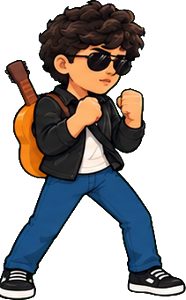
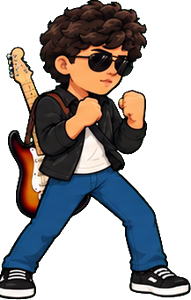
La Mocha: Adam con guitarra electrica
Claude-Session: https://claude.ai/code/session_019FDnwE1yNBZjJsBSPwGXXr

diff --git a/la-mocha/index.html b/la-mocha/index.html
@@ -312,7 +312,7 @@ ROSTER.find(c=>c.name==="Bruno").spr="Bruno";
 /* ---------- Dibujo de luchadores ---------- */
 const HEADS=new Map();
 /* ---------- Sprites ilustrados ---------- */
-const SPRITES={"Ivan":{portrait:"personajes/Ivan/portrait.png",idle:{w:166,h:300,ax:89,src:"personajes/Ivan/idle.png"},punch:{w:180,h:295,ax:90,src:"personajes/Ivan/punch.png"},punch_hi:{w:183,h:287,ax:90,src:"personajes/Ivan/punch_hi.png"},upper:{w:177,h:291,ax:81,src:"personajes/Ivan/upper.png"},kick:{w:168,h:286,ax:49,src:"personajes/Ivan/kick.png"},kick_hi:{w:170,h:302,ax:51,src:"personajes/Ivan/kick_hi.png"},block:{w:156,h:286,ax:68,src:"personajes/Ivan/block.png"},crouch:{w:166,h:223,ax:91,src:"personajes/Ivan/crouch.png"},crouch_punch:{w:200,h:223,ax:102,src:"personajes/Ivan/crouch_punch.png"},crouch_kick:{w:200,h:205,ax:66,src:"personajes/Ivan/crouch_kick.png"},hit:{w:196,h:267,ax:56,src:"personajes/Ivan/hit.png"},win:{w:167,h:284,ax:79,src:"personajes/Ivan/win.png"}},"Marcelo":{portrait:"personajes/Marcelo/portrait.png",idle:{w:182,h:300,ax:83,src:"personajes/Marcelo/idle.png"},punch:{w:201,h:285,ax:94,src:"personajes/Marcelo/punch.png"},kick:{w:187,h:284,ax:55,src:"personajes/Marcelo/kick.png"},hit:{w:203,h:265,ax:62,src:"personajes/Marcelo/hit.png"},win:{w:181,h:276,ax:63,src:"personajes/Marcelo/win.png"},crouch:{w:161,h:241,ax:90,src:"personajes/Marcelo/crouch.png"},crouch_punch:{w:213,h:235,ax:120,src:"personajes/Marcelo/crouch_punch.png"},crouch_kick:{w:207,h:235,ax:60,src:"personajes/Marcelo/crouch_kick.png"},punch_hi:{w:198,h:300,ax:84,src:"personajes/Marcelo/punch_hi.png"},upper:{w:188,h:305,ax:80,src:"personajes/Marcelo/upper.png"},kick_hi:{w:193,h:310,ax:55,src:"personajes/Marcelo/kick_hi.png"},block:{w:184,h:290,ax:79,src:"personajes/Marcelo/block.png"}},"Bruno":{portrait:"personajes/Bruno/portrait.png",idle:{w:211,h:300,ax:114,src:"personajes/Bruno/idle.png"},punch:{w:250,h:299,ax:121,src:"personajes/Bruno/punch.png"},punch_hi:{w:244,h:300,ax:112,src:"personajes/Bruno/punch_hi.png"},upper:{w:206,h:300,ax:81,src:"personajes/Bruno/upper.png"},kick:{w:217,h:296,ax:81,src:"personajes/Bruno/kick.png"},kick_hi:{w:230,h:266,ax:72,src:"personajes/Bruno/kick_hi.png"},block:{w:218,h:266,ax:95,src:"personajes/Bruno/block.png"},crouch:{w:216,h:236,ax:116,src:"personajes/Bruno/crouch.png"},crouch_punch:{w:221,h:236,ax:131,src:"personajes/Bruno/crouch_punch.png"},crouch_kick:{w:235,h:264,ax:86,src:"personajes/Bruno/crouch_kick.png"},hit:{w:257,h:247,ax:62,src:"personajes/Bruno/hit.png"},win:{w:167,h:255,ax:60,src:"personajes/Bruno/win.png"}},"Karl":{portrait:"personajes/Karl/portrait.png",idle:{w:192,h:300,ax:88,src:"personajes/Karl/idle.png"},punch:{w:220,h:286,ax:112,src:"personajes/Karl/punch.png"},kick:{w:191,h:268,ax:34,src:"personajes/Karl/kick.png"},hit:{w:211,h:283,ax:32,src:"personajes/Karl/hit.png"},win:{w:202,h:317,ax:89,src:"personajes/Karl/win.png"},crouch:{w:178,h:233,ax:92,src:"personajes/Karl/crouch.png"},crouch_punch:{w:226,h:232,ax:120,src:"personajes/Karl/crouch_punch.png"},crouch_kick:{w:215,h:255,ax:52,src:"personajes/Karl/crouch_kick.png"},punch_hi:{w:209,h:306,ax:87,src:"personajes/Karl/punch_hi.png"},upper:{w:191,h:312,ax:85,src:"personajes/Karl/upper.png"},kick_hi:{w:192,h:340,ax:33,src:"personajes/Karl/kick_hi.png"},block:{w:190,h:295,ax:63,src:"personajes/Karl/block.png"}},"Klaus":{portrait:"personajes/Klaus/portrait.png",idle:{w:170,h:300,ax:84,src:"personajes/Klaus/idle.png"},punch:{w:195,h:294,ax:100,src:"personajes/Klaus/punch.png"},punch_hi:{w:194,h:296,ax:91,src:"personajes/Klaus/punch_hi.png"},upper:{w:190,h:325,ax:92,src:"personajes/Klaus/upper.png"},kick:{w:180,h:292,ax:46,src:"personajes/Klaus/kick.png"},kick_hi:{w:184,h:304,ax:47,src:"personajes/Klaus/kick_hi.png"},block:{w:169,h:287,ax:83,src:"personajes/Klaus/block.png"},crouch:{w:175,h:231,ax:100,src:"personajes/Klaus/crouch.png"},crouch_punch:{w:216,h:231,ax:116,src:"personajes/Klaus/crouch_punch.png"},crouch_kick:{w:191,h:210,ax:58,src:"personajes/Klaus/crouch_kick.png"},hit:{w:196,h:275,ax:52,src:"personajes/Klaus/hit.png"},win:{w:167,h:304,ax:67,src:"personajes/Klaus/win.png"}},"Felipe":{portrait:"personajes/Felipe/portrait.png",idle:{w:195,h:300,ax:92,src:"personajes/Felipe/idle.png"},punch:{w:207,h:292,ax:97,src:"personajes/Felipe/punch.png"},punch_hi:{w:210,h:353,ax:95,src:"personajes/Felipe/punch_hi.png"},upper:{w:198,h:285,ax:85,src:"personajes/Felipe/upper.png"},kick:{w:193,h:297,ax:55,src:"personajes/Felipe/kick.png"},kick_hi:{w:194,h:329,ax:51,src:"personajes/Felipe/kick_hi.png"},block:{w:180,h:287,ax:88,src:"personajes/Felipe/block.png"},crouch:{w:195,h:227,ax:110,src:"personajes/Felipe/crouch.png"},crouch_punch:{w:222,h:224,ax:123,src:"personajes/Felipe/crouch_punch.png"},crouch_kick:{w:213,h:214,ax:61,src:"personajes/Felipe/crouch_kick.png"},hit:{w:211,h:302,ax:51,src:"personajes/Felipe/hit.png"},win:{w:214,h:303,ax:103,src:"personajes/Felipe/win.png"}},"Adam":{portrait:"personajes/Adam/portrait.png",idle:{w:186,h:300,ax:73,src:"personajes/Adam/idle.png"},punch:{w:197,h:295,ax:79,src:"personajes/Adam/punch.png"},punch_hi:{w:221,h:296,ax:93,src:"personajes/Adam/punch_hi.png"},upper:{w:198,h:326,ax:90,src:"personajes/Adam/upper.png"},kick:{w:200,h:288,ax:36,src:"personajes/Adam/kick.png"},kick_hi:{w:195,h:316,ax:33,src:"personajes/Adam/kick_hi.png"},block:{w:190,h:298,ax:77,src:"personajes/Adam/block.png"},crouch:{w:191,h:244,ax:87,src:"personajes/Adam/crouch.png"},crouch_punch:{w:229,h:240,ax:98,src:"personajes/Adam/crouch_punch.png"},crouch_kick:{w:232,h:216,ax:64,src:"personajes/Adam/crouch_kick.png"},hit:{w:230,h:280,ax:45,src:"personajes/Adam/hit.png"},win:{w:198,h:294,ax:97,src:"personajes/Adam/win.png"}},"Lazza":{portrait:"personajes/Lazza/portrait.png",idle:{w:182,h:300,ax:92,src:"personajes/Lazza/idle.png"},punch:{w:197,h:289,ax:103,src:"personajes/Lazza/punch.png"},punch_hi:{w:197,h:306,ax:90,src:"personajes/Lazza/punch_hi.png"},upper:{w:189,h:316,ax:104,src:"personajes/Lazza/upper.png"},kick:{w:187,h:298,ax:72,src:"personajes/Lazza/kick.png"},kick_hi:{w:185,h:333,ax:70,src:"personajes/Lazza/kick_hi.png"},block:{w:170,h:285,ax:99,src:"personajes/Lazza/block.png"},crouch:{w:185,h:232,ax:114,src:"personajes/Lazza/crouch.png"},crouch_punch:{w:222,h:221,ax:131,src:"personajes/Lazza/crouch_punch.png"},crouch_kick:{w:216,h:203,ax:85,src:"personajes/Lazza/crouch_kick.png"},hit:{w:196,h:291,ax:67,src:"personajes/Lazza/hit.png"},win:{w:185,h:299,ax:97,src:"personajes/Lazza/win.png"}},"Espe":{portrait:"personajes/Espe/portrait.png",idle:{w:187,h:300,ax:93,src:"personajes/Espe/idle.png"},punch:{w:202,h:293,ax:94,src:"personajes/Espe/punch.png"},punch_hi:{w:201,h:305,ax:99,src:"personajes/Espe/punch_hi.png"},upper:{w:198,h:311,ax:98,src:"personajes/Espe/upper.png"},kick:{w:198,h:295,ax:57,src:"personajes/Espe/kick.png"},kick_hi:{w:188,h:333,ax:53,src:"personajes/Espe/kick_hi.png"},block:{w:172,h:291,ax:82,src:"personajes/Espe/block.png"},crouch:{w:181,h:233,ax:108,src:"personajes/Espe/crouch.png"},crouch_punch:{w:229,h:231,ax:116,src:"personajes/Espe/crouch_punch.png"},crouch_kick:{w:226,h:207,ax:86,src:"personajes/Espe/crouch_kick.png"},hit:{w:209,h:277,ax:60,src:"personajes/Espe/hit.png"},win:{w:167,h:315,ax:85,src:"personajes/Espe/win.png"}},"Marco":{portrait:"personajes/Marco/portrait.png",idle:{w:177,h:300,ax:98,src:"personajes/Marco/idle.png"},punch:{w:196,h:295,ax:95,src:"personajes/Marco/punch.png"},punch_hi:{w:196,h:297,ax:92,src:"personajes/Marco/punch_hi.png"},upper:{w:189,h:331,ax:88,src:"personajes/Marco/upper.png"},kick:{w:192,h:336,ax:63,src:"personajes/Marco/kick.png"},kick_hi:{w:181,h:314,ax:61,src:"personajes/Marco/kick_hi.png"},block:{w:165,h:291,ax:82,src:"personajes/Marco/block.png"},crouch:{w:174,h:228,ax:102,src:"personajes/Marco/crouch.png"},crouch_punch:{w:216,h:227,ax:114,src:"personajes/Marco/crouch_punch.png"},crouch_kick:{w:206,h:201,ax:71,src:"personajes/Marco/crouch_kick.png"},hit:{w:201,h:269,ax:56,src:"personajes/Marco/hit.png"},win:{w:209,h:294,ax:113,src:"personajes/Marco/win.png"}},"Maxi":{portrait:"personajes/Maxi/portrait.png",idle:{w:177,h:300,ax:102,src:"personajes/Maxi/idle.png"},punch:{w:197,h:288,ax:100,src:"personajes/Maxi/punch.png"},punch_hi:{w:209,h:290,ax:103,src:"personajes/Maxi/punch_hi.png"},upper:{w:198,h:322,ax:100,src:"personajes/Maxi/upper.png"},kick:{w:183,h:285,ax:50,src:"personajes/Maxi/kick.png"},kick_hi:{w:192,h:304,ax:50,src:"personajes/Maxi/kick_hi.png"},block:{w:190,h:330,ax:87,src:"personajes/Maxi/block.png"},crouch:{w:187,h:241,ax:96,src:"personajes/Maxi/crouch.png"},crouch_punch:{w:213,h:236,ax:104,src:"personajes/Maxi/crouch_punch.png"},crouch_kick:{w:218,h:205,ax:54,src:"personajes/Maxi/crouch_kick.png"},hit:{w:215,h:286,ax:59,src:"personajes/Maxi/hit.png"},win:{w:191,h:299,ax:83,src:"personajes/Maxi/win.png"}},"Marcelo Ig":{portrait:"personajes/Marcelo_Ig/portrait.png",idle:{w:183,h:300,ax:96,src:"personajes/Marcelo_Ig/idle.png"},punch:{w:196,h:290,ax:105,src:"personajes/Marcelo_Ig/punch.png"},punch_hi:{w:210,h:334,ax:100,src:"personajes/Marcelo_Ig/punch_hi.png"},upper:{w:198,h:329,ax:91,src:"personajes/Marcelo_Ig/upper.png"},kick:{w:187,h:334,ax:55,src:"personajes/Marcelo_Ig/kick.png"},kick_hi:{w:191,h:306,ax:52,src:"personajes/Marcelo_Ig/kick_hi.png"},block:{w:183,h:289,ax:85,src:"personajes/Marcelo_Ig/block.png"},crouch:{w:200,h:200,ax:93,src:"personajes/Marcelo_Ig/crouch.png"},crouch_punch:{w:207,h:261,ax:109,src:"personajes/Marcelo_Ig/crouch_punch.png"},crouch_kick:{w:200,h:261,ax:47,src:"personajes/Marcelo_Ig/crouch_kick.png"},hit:{w:210,h:253,ax:67,src:"personajes/Marcelo_Ig/hit.png"},win:{w:184,h:261,ax:83,src:"personajes/Marcelo_Ig/win.png"}},"Miguel":{portrait:"personajes/Miguel/portrait.png",idle:{w:182,h:300,ax:101,src:"personajes/Miguel/idle.png"},punch:{w:196,h:300,ax:102,src:"personajes/Miguel/punch.png"},punch_hi:{w:195,h:323,ax:99,src:"personajes/Miguel/punch_hi.png"},upper:{w:186,h:313,ax:88,src:"personajes/Miguel/upper.png"},kick:{w:190,h:287,ax:62,src:"personajes/Miguel/kick.png"},kick_hi:{w:182,h:333,ax:60,src:"personajes/Miguel/kick_hi.png"},block:{w:170,h:282,ax:91,src:"personajes/Miguel/block.png"},crouch:{w:175,h:226,ax:103,src:"personajes/Miguel/crouch.png"},crouch_punch:{w:216,h:223,ax:117,src:"personajes/Miguel/crouch_punch.png"},crouch_kick:{w:207,h:225,ax:75,src:"personajes/Miguel/crouch_kick.png"},hit:{w:211,h:282,ax:64,src:"personajes/Miguel/hit.png"},win:{w:202,h:303,ax:104,src:"personajes/Miguel/win.png"}}};
+const SPRITES={"Ivan":{portrait:"personajes/Ivan/portrait.png",idle:{w:166,h:300,ax:89,src:"personajes/Ivan/idle.png"},punch:{w:180,h:295,ax:90,src:"personajes/Ivan/punch.png"},punch_hi:{w:183,h:287,ax:90,src:"personajes/Ivan/punch_hi.png"},upper:{w:177,h:291,ax:81,src:"personajes/Ivan/upper.png"},kick:{w:168,h:286,ax:49,src:"personajes/Ivan/kick.png"},kick_hi:{w:170,h:302,ax:51,src:"personajes/Ivan/kick_hi.png"},block:{w:156,h:286,ax:68,src:"personajes/Ivan/block.png"},crouch:{w:166,h:223,ax:91,src:"personajes/Ivan/crouch.png"},crouch_punch:{w:200,h:223,ax:102,src:"personajes/Ivan/crouch_punch.png"},crouch_kick:{w:200,h:205,ax:66,src:"personajes/Ivan/crouch_kick.png"},hit:{w:196,h:267,ax:56,src:"personajes/Ivan/hit.png"},win:{w:167,h:284,ax:79,src:"personajes/Ivan/win.png"}},"Marcelo":{portrait:"personajes/Marcelo/portrait.png",idle:{w:182,h:300,ax:83,src:"personajes/Marcelo/idle.png"},punch:{w:201,h:285,ax:94,src:"personajes/Marcelo/punch.png"},kick:{w:187,h:284,ax:55,src:"personajes/Marcelo/kick.png"},hit:{w:203,h:265,ax:62,src:"personajes/Marcelo/hit.png"},win:{w:181,h:276,ax:63,src:"personajes/Marcelo/win.png"},crouch:{w:161,h:241,ax:90,src:"personajes/Marcelo/crouch.png"},crouch_punch:{w:213,h:235,ax:120,src:"personajes/Marcelo/crouch_punch.png"},crouch_kick:{w:207,h:235,ax:60,src:"personajes/Marcelo/crouch_kick.png"},punch_hi:{w:198,h:300,ax:84,src:"personajes/Marcelo/punch_hi.png"},upper:{w:188,h:305,ax:80,src:"personajes/Marcelo/upper.png"},kick_hi:{w:193,h:310,ax:55,src:"personajes/Marcelo/kick_hi.png"},block:{w:184,h:290,ax:79,src:"personajes/Marcelo/block.png"}},"Bruno":{portrait:"personajes/Bruno/portrait.png",idle:{w:211,h:300,ax:114,src:"personajes/Bruno/idle.png"},punch:{w:250,h:299,ax:121,src:"personajes/Bruno/punch.png"},punch_hi:{w:244,h:300,ax:112,src:"personajes/Bruno/punch_hi.png"},upper:{w:206,h:300,ax:81,src:"personajes/Bruno/upper.png"},kick:{w:217,h:296,ax:81,src:"personajes/Bruno/kick.png"},kick_hi:{w:230,h:266,ax:72,src:"personajes/Bruno/kick_hi.png"},block:{w:218,h:266,ax:95,src:"personajes/Bruno/block.png"},crouch:{w:216,h:236,ax:116,src:"personajes/Bruno/crouch.png"},crouch_punch:{w:221,h:236,ax:131,src:"personajes/Bruno/crouch_punch.png"},crouch_kick:{w:235,h:264,ax:86,src:"personajes/Bruno/crouch_kick.png"},hit:{w:257,h:247,ax:62,src:"personajes/Bruno/hit.png"},win:{w:167,h:255,ax:60,src:"personajes/Bruno/win.png"}},"Karl":{portrait:"personajes/Karl/portrait.png",idle:{w:192,h:300,ax:88,src:"personajes/Karl/idle.png"},punch:{w:220,h:286,ax:112,src:"personajes/Karl/punch.png"},kick:{w:191,h:268,ax:34,src:"personajes/Karl/kick.png"},hit:{w:211,h:283,ax:32,src:"personajes/Karl/hit.png"},win:{w:202,h:317,ax:89,src:"personajes/Karl/win.png"},crouch:{w:178,h:233,ax:92,src:"personajes/Karl/crouch.png"},crouch_punch:{w:226,h:232,ax:120,src:"personajes/Karl/crouch_punch.png"},crouch_kick:{w:215,h:255,ax:52,src:"personajes/Karl/crouch_kick.png"},punch_hi:{w:209,h:306,ax:87,src:"personajes/Karl/punch_hi.png"},upper:{w:191,h:312,ax:85,src:"personajes/Karl/upper.png"},kick_hi:{w:192,h:340,ax:33,src:"personajes/Karl/kick_hi.png"},block:{w:190,h:295,ax:63,src:"personajes/Karl/block.png"}},"Klaus":{portrait:"personajes/Klaus/portrait.png",idle:{w:170,h:300,ax:84,src:"personajes/Klaus/idle.png"},punch:{w:195,h:294,ax:100,src:"personajes/Klaus/punch.png"},punch_hi:{w:194,h:296,ax:91,src:"personajes/Klaus/punch_hi.png"},upper:{w:190,h:325,ax:92,src:"personajes/Klaus/upper.png"},kick:{w:180,h:292,ax:46,src:"personajes/Klaus/kick.png"},kick_hi:{w:184,h:304,ax:47,src:"personajes/Klaus/kick_hi.png"},block:{w:169,h:287,ax:83,src:"personajes/Klaus/block.png"},crouch:{w:175,h:231,ax:100,src:"personajes/Klaus/crouch.png"},crouch_punch:{w:216,h:231,ax:116,src:"personajes/Klaus/crouch_punch.png"},crouch_kick:{w:191,h:210,ax:58,src:"personajes/Klaus/crouch_kick.png"},hit:{w:196,h:275,ax:52,src:"personajes/Klaus/hit.png"},win:{w:167,h:304,ax:67,src:"personajes/Klaus/win.png"}},"Felipe":{portrait:"personajes/Felipe/portrait.png",idle:{w:195,h:300,ax:92,src:"personajes/Felipe/idle.png"},punch:{w:207,h:292,ax:97,src:"personajes/Felipe/punch.png"},punch_hi:{w:210,h:353,ax:95,src:"personajes/Felipe/punch_hi.png"},upper:{w:198,h:285,ax:85,src:"personajes/Felipe/upper.png"},kick:{w:193,h:297,ax:55,src:"personajes/Felipe/kick.png"},kick_hi:{w:194,h:329,ax:51,src:"personajes/Felipe/kick_hi.png"},block:{w:180,h:287,ax:88,src:"personajes/Felipe/block.png"},crouch:{w:195,h:227,ax:110,src:"personajes/Felipe/crouch.png"},crouch_punch:{w:222,h:224,ax:123,src:"personajes/Felipe/crouch_punch.png"},crouch_kick:{w:213,h:214,ax:61,src:"personajes/Felipe/crouch_kick.png"},hit:{w:211,h:302,ax:51,src:"personajes/Felipe/hit.png"},win:{w:214,h:303,ax:103,src:"personajes/Felipe/win.png"}},"Adam":{portrait:"personajes/Adam/portrait.png",idle:{w:191,h:300,ax:85,src:"personajes/Adam/idle.png"},punch:{w:196,h:297,ax:81,src:"personajes/Adam/punch.png"},punch_hi:{w:219,h:302,ax:101,src:"personajes/Adam/punch_hi.png"},upper:{w:194,h:321,ax:95,src:"personajes/Adam/upper.png"},kick:{w:207,h:323,ax:42,src:"personajes/Adam/kick.png"},kick_hi:{w:201,h:325,ax:68,src:"personajes/Adam/kick_hi.png"},block:{w:181,h:297,ax:65,src:"personajes/Adam/block.png"},crouch:{w:190,h:249,ax:86,src:"personajes/Adam/crouch.png"},crouch_punch:{w:225,h:243,ax:114,src:"personajes/Adam/crouch_punch.png"},crouch_kick:{w:236,h:217,ax:86,src:"personajes/Adam/crouch_kick.png"},hit:{w:234,h:281,ax:51,src:"personajes/Adam/hit.png"},win:{w:195,h:293,ax:99,src:"personajes/Adam/win.png"}},"Lazza":{portrait:"personajes/Lazza/portrait.png",idle:{w:182,h:300,ax:92,src:"personajes/Lazza/idle.png"},punch:{w:197,h:289,ax:103,src:"personajes/Lazza/punch.png"},punch_hi:{w:197,h:306,ax:90,src:"personajes/Lazza/punch_hi.png"},upper:{w:189,h:316,ax:104,src:"personajes/Lazza/upper.png"},kick:{w:187,h:298,ax:72,src:"personajes/Lazza/kick.png"},kick_hi:{w:185,h:333,ax:70,src:"personajes/Lazza/kick_hi.png"},block:{w:170,h:285,ax:99,src:"personajes/Lazza/block.png"},crouch:{w:185,h:232,ax:114,src:"personajes/Lazza/crouch.png"},crouch_punch:{w:222,h:221,ax:131,src:"personajes/Lazza/crouch_punch.png"},crouch_kick:{w:216,h:203,ax:85,src:"personajes/Lazza/crouch_kick.png"},hit:{w:196,h:291,ax:67,src:"personajes/Lazza/hit.png"},win:{w:185,h:299,ax:97,src:"personajes/Lazza/win.png"}},"Espe":{portrait:"personajes/Espe/portrait.png",idle:{w:187,h:300,ax:93,src:"personajes/Espe/idle.png"},punch:{w:202,h:293,ax:94,src:"personajes/Espe/punch.png"},punch_hi:{w:201,h:305,ax:99,src:"personajes/Espe/punch_hi.png"},upper:{w:198,h:311,ax:98,src:"personajes/Espe/upper.png"},kick:{w:198,h:295,ax:57,src:"personajes/Espe/kick.png"},kick_hi:{w:188,h:333,ax:53,src:"personajes/Espe/kick_hi.png"},block:{w:172,h:291,ax:82,src:"personajes/Espe/block.png"},crouch:{w:181,h:233,ax:108,src:"personajes/Espe/crouch.png"},crouch_punch:{w:229,h:231,ax:116,src:"personajes/Espe/crouch_punch.png"},crouch_kick:{w:226,h:207,ax:86,src:"personajes/Espe/crouch_kick.png"},hit:{w:209,h:277,ax:60,src:"personajes/Espe/hit.png"},win:{w:167,h:315,ax:85,src:"personajes/Espe/win.png"}},"Marco":{portrait:"personajes/Marco/portrait.png",idle:{w:177,h:300,ax:98,src:"personajes/Marco/idle.png"},punch:{w:196,h:295,ax:95,src:"personajes/Marco/punch.png"},punch_hi:{w:196,h:297,ax:92,src:"personajes/Marco/punch_hi.png"},upper:{w:189,h:331,ax:88,src:"personajes/Marco/upper.png"},kick:{w:192,h:336,ax:63,src:"personajes/Marco/kick.png"},kick_hi:{w:181,h:314,ax:61,src:"personajes/Marco/kick_hi.png"},block:{w:165,h:291,ax:82,src:"personajes/Marco/block.png"},crouch:{w:174,h:228,ax:102,src:"personajes/Marco/crouch.png"},crouch_punch:{w:216,h:227,ax:114,src:"personajes/Marco/crouch_punch.png"},crouch_kick:{w:206,h:201,ax:71,src:"personajes/Marco/crouch_kick.png"},hit:{w:201,h:269,ax:56,src:"personajes/Marco/hit.png"},win:{w:209,h:294,ax:113,src:"personajes/Marco/win.png"}},"Maxi":{portrait:"personajes/Maxi/portrait.png",idle:{w:177,h:300,ax:102,src:"personajes/Maxi/idle.png"},punch:{w:197,h:288,ax:100,src:"personajes/Maxi/punch.png"},punch_hi:{w:209,h:290,ax:103,src:"personajes/Maxi/punch_hi.png"},upper:{w:198,h:322,ax:100,src:"personajes/Maxi/upper.png"},kick:{w:183,h:285,ax:50,src:"personajes/Maxi/kick.png"},kick_hi:{w:192,h:304,ax:50,src:"personajes/Maxi/kick_hi.png"},block:{w:190,h:330,ax:87,src:"personajes/Maxi/block.png"},crouch:{w:187,h:241,ax:96,src:"personajes/Maxi/crouch.png"},crouch_punch:{w:213,h:236,ax:104,src:"personajes/Maxi/crouch_punch.png"},crouch_kick:{w:218,h:205,ax:54,src:"personajes/Maxi/crouch_kick.png"},hit:{w:215,h:286,ax:59,src:"personajes/Maxi/hit.png"},win:{w:191,h:299,ax:83,src:"personajes/Maxi/win.png"}},"Marcelo Ig":{portrait:"personajes/Marcelo_Ig/portrait.png",idle:{w:183,h:300,ax:96,src:"personajes/Marcelo_Ig/idle.png"},punch:{w:196,h:290,ax:105,src:"personajes/Marcelo_Ig/punch.png"},punch_hi:{w:210,h:334,ax:100,src:"personajes/Marcelo_Ig/punch_hi.png"},upper:{w:198,h:329,ax:91,src:"personajes/Marcelo_Ig/upper.png"},kick:{w:187,h:334,ax:55,src:"personajes/Marcelo_Ig/kick.png"},kick_hi:{w:191,h:306,ax:52,src:"personajes/Marcelo_Ig/kick_hi.png"},block:{w:183,h:289,ax:85,src:"personajes/Marcelo_Ig/block.png"},crouch:{w:200,h:200,ax:93,src:"personajes/Marcelo_Ig/crouch.png"},crouch_punch:{w:207,h:261,ax:109,src:"personajes/Marcelo_Ig/crouch_punch.png"},crouch_kick:{w:200,h:261,ax:47,src:"personajes/Marcelo_Ig/crouch_kick.png"},hit:{w:210,h:253,ax:67,src:"personajes/Marcelo_Ig/hit.png"},win:{w:184,h:261,ax:83,src:"personajes/Marcelo_Ig/win.png"}},"Miguel":{portrait:"personajes/Miguel/portrait.png",idle:{w:182,h:300,ax:101,src:"personajes/Miguel/idle.png"},punch:{w:196,h:300,ax:102,src:"personajes/Miguel/punch.png"},punch_hi:{w:195,h:323,ax:99,src:"personajes/Miguel/punch_hi.png"},upper:{w:186,h:313,ax:88,src:"personajes/Miguel/upper.png"},kick:{w:190,h:287,ax:62,src:"personajes/Miguel/kick.png"},kick_hi:{w:182,h:333,ax:60,src:"personajes/Miguel/kick_hi.png"},block:{w:170,h:282,ax:91,src:"personajes/Miguel/block.png"},crouch:{w:175,h:226,ax:103,src:"personajes/Miguel/crouch.png"},crouch_punch:{w:216,h:223,ax:117,src:"personajes/Miguel/crouch_punch.png"},crouch_kick:{w:207,h:225,ax:75,src:"personajes/Miguel/crouch_kick.png"},hit:{w:211,h:282,ax:64,src:"personajes/Miguel/hit.png"},win:{w:202,h:303,ax:104,src:"personajes/Miguel/win.png"}}};
 for(const name in SPRITES){const S=SPRITES[name];let n=0,need=0;
   for(const k in S){if(k==="portrait"){const im=new Image();im.onload=()=>{S.pimg=im;HEADS.clear();try{ROSTER.forEach((ch,i)=>{const c=document.querySelector("#card"+i+" canvas");if(c)portrait(c,ch)})}catch(e){}};im.src=S.portrait;continue}
     need++;const m=S[k];if(k.startsWith("crouch"))m.bent=true;const im=new Image();im.onload=()=>{m.img=im;if(++n===need){S.ok=true;HEADS.clear&&HEADS.clear();try{ROSTER.forEach((ch,i)=>{const c=document.querySelector("#card"+i+" canvas");if(c)portrait(c,ch)})}catch(e){}}};im.src=m.src}}
